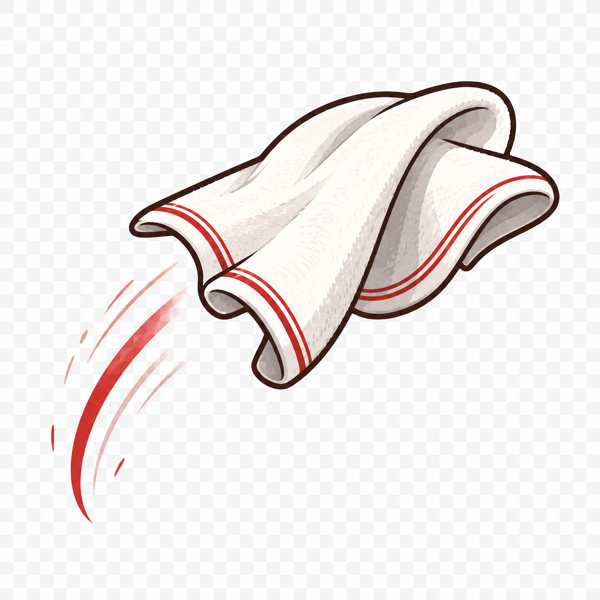
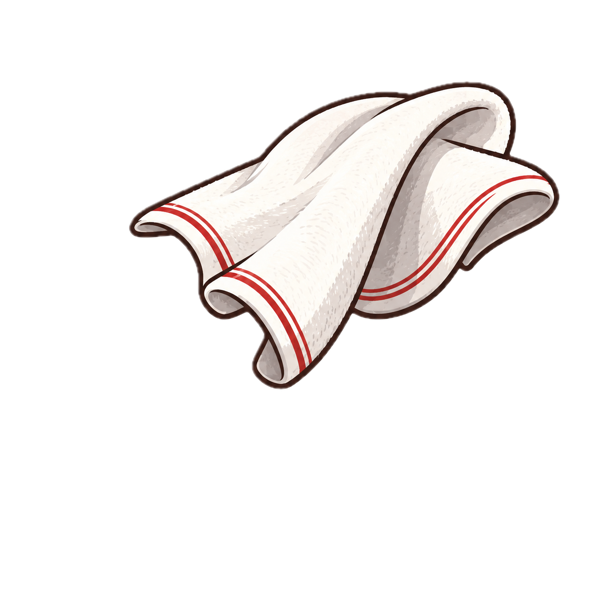
feat: 札束/タオル画像差し替え + SE/軌道を調整
- 札束画像を そらリス アセット (札束_透過.png) に差し替え (sips -Z 600 で 366KB)
- タオル画像を 新規 タオル_透過.png に差し替え (170KB)
- 特殊パンチを縦並びに戻す (--row 解除し、--center を再度有効化)。
  CSS から不要になった --row 定義を削除
- cashWhomp() を「紙束でバサッ」寄りに作り直し:
  chime / bell の triangle oscillator を撤去。低域を短くして紙ノイズと
  3 連 riffle (高域ノイズ 短音 ×3) で「バサッ」の質感を出す
- TowelOverlay: 左外 (x: -180%) → 中央 (x: -50%) → 右外 (x: 120%) の
  横切り軌道に変更。中央でわずかに上に弧を描く (y: -30% → -58% → -30%)

diff --git a/src/lib/sound.ts b/src/lib/sound.ts
@@ -422,64 +422,69 @@ function cashWhomp() {
   const master = getMaster(c);
   const now = c.currentTime;
 
-  // Heavy thud (a stack of paper has weight)
+  // 紙束で「バサッ」と叩く: 短い低域スラップ + 高域の紙ノイズ + 速い riffle
+  // (chime / bell は使わない)
   thumpInto(c, master, now, {
-    bodyFreqStart: 90,
-    bodyFreqEnd: 30,
-    bodyDur: 0.42,
-    bodyVol: 0.4,
-    subFreqStart: 50,
-    subFreqEnd: 22,
-    subDur: 0.34,
-    subVol: 0.3,
-    slapBP: 1300,
-    slapBPQ: 1.7,
-    slapDur: 0.07,
-    slapVol: 0.18,
-    clickVol: 0.07,
-    clickDur: 0.016,
+    bodyFreqStart: 130,
+    bodyFreqEnd: 50,
+    bodyDur: 0.16,
+    bodyVol: 0.26,
+    subFreqStart: 60,
+    subFreqEnd: 32,
+    subDur: 0.14,
+    subVol: 0.18,
+    slapBP: 2000,
+    slapBPQ: 1.2,
+    slapDur: 0.05,
+    slapVol: 0.16,
+    clickVol: 0.04,
+    clickDur: 0.012,
   });
 
-  // Paper riffle: two short high-passed noise bursts
-  for (const startOffset of [0, 0.06]) {
-    const at = now + startOffset;
+  // 紙の「バサッ」本体: 中〜高域のノイズが短く広がる
+  {
     const { node, offset } = noiseSourceWithOffset(c);
     const hp = c.createBiquadFilter();
     hp.type = "highpass";
-    hp.frequency.setValueAtTime(2200, at);
+    hp.frequency.setValueAtTime(800, now);
     const bp = c.createBiquadFilter();
     bp.type = "bandpass";
-    bp.frequency.setValueAtTime(4500, at);
-    bp.Q.setValueAtTime(0.9, at);
+    bp.frequency.setValueAtTime(2400, now);
+    bp.frequency.exponentialRampToValueAtTime(900, now + 0.18);
+    bp.Q.setValueAtTime(0.7, now);
+    const gain = c.createGain();
+    gain.gain.setValueAtTime(0, now);
+    gain.gain.linearRampToValueAtTime(0.22, now + 0.006);
+    gain.gain.exponentialRampToValueAtTime(0.001, now + 0.22);
+    node.connect(hp);
+    hp.connect(bp);
+    bp.connect(gain);
+    gain.connect(master);
+    node.start(now, offset);
+    node.stop(now + 0.24);
+  }
+
+  // 紙束のページがめくれる速い riffle (3 連の高域ノイズ)
+  for (const tOff of [0.012, 0.04, 0.075]) {
+    const at = now + tOff;
+    const { node, offset } = noiseSourceWithOffset(c);
+    const hp = c.createBiquadFilter();
+    hp.type = "highpass";
+    hp.frequency.setValueAtTime(3000, at);
+    const bp = c.createBiquadFilter();
+    bp.type = "bandpass";
+    bp.frequency.setValueAtTime(5200 + Math.random() * 1400, at);
+    bp.Q.setValueAtTime(1.4, at);
     const gain = c.createGain();
     gain.gain.setValueAtTime(0, at);
-    gain.gain.linearRampToValueAtTime(0.13, at + 0.008);
-    gain.gain.exponentialRampToValueAtTime(0.0008, at + 0.13);
+    gain.gain.linearRampToValueAtTime(0.08, at + 0.003);
+    gain.gain.exponentialRampToValueAtTime(0.0006, at + 0.05);
     node.connect(hp);
     hp.connect(bp);
     bp.connect(gain);
     gain.connect(master);
     node.start(at, offset);
-    node.stop(at + 0.15);
-  }
-
-  // Cha-ching ding (two-note bell)
-  for (const [freq, atOffset, vol] of [
-    [1760, 0.02, 0.18] as const,
-    [2349, 0.12, 0.12] as const,
-  ]) {
-    const at = now + atOffset;
-    const osc = c.createOscillator();
-    osc.type = "triangle";
-    osc.frequency.setValueAtTime(freq, at);
-    const gain = c.createGain();
-    gain.gain.setValueAtTime(0, at);
-    gain.gain.linearRampToValueAtTime(vol, at + 0.005);
-    gain.gain.exponentialRampToValueAtTime(0.0006, at + 0.5);
-    osc.connect(gain);
-    gain.connect(master);
-    osc.start(at);
-    osc.stop(at + 0.55);
+    node.stop(at + 0.06);
   }
 }
 

diff --git a/src/components/TowelOverlay.tsx b/src/components/TowelOverlay.tsx
@@ -32,15 +32,15 @@ export function TowelOverlay() {
         alt=""
         draggable={false}
         className="towel-overlay__img"
-        initial={{ x: "-160%", y: "-30%", rotate: -32, scale: 0.7, opacity: 0 }}
+        initial={{ x: "-180%", y: "-30%", rotate: -18, scale: 0.95, opacity: 0 }}
         animate={{
-          x: ["-160%", "-50%", "-50%"],
-          y: ["-30%", "-50%", "-50%"],
-          rotate: [-32, -8, 12],
-          scale: [0.7, 1, 1.05],
-          opacity: [0, 1, 0.95],
+          x: ["-180%", "-50%", "120%"],
+          y: ["-30%", "-58%", "-30%"],
+          rotate: [-18, 6, 24],
+          scale: [0.95, 1.05, 0.95],
+          opacity: [0, 1, 0.85],
         }}
-        transition={{ duration: 0.95, times: [0, 0.6, 1], ease: "easeOut" }}
+        transition={{ duration: 1.0, times: [0, 0.45, 1], ease: "easeInOut" }}
       />
     </motion.div>
   );

diff --git a/src/styles/globals.css b/src/styles/globals.css
@@ -235,22 +235,13 @@ textarea {
   align-items: center;
 }
 
-.side-section__list--row {
-  flex-direction: row;
-  flex-wrap: wrap;
-  justify-content: center;
-  gap: 10px;
-}
-
 .side-section__list .quick-punch-button {
   width: 100%;
   flex: 0 0 auto;
 }
 
 .side-section__list--center .quick-punch-button--cat,
-.side-section__list--center .quick-punch-button--cash,
-.side-section__list--row .quick-punch-button--cat,
-.side-section__list--row .quick-punch-button--cash {
+.side-section__list--center .quick-punch-button--cash {
   width: auto;
 }
 

diff --git a/src/components/SkillPanel.tsx b/src/components/SkillPanel.tsx
@@ -136,7 +136,7 @@ export function SkillPanel({
         <div className="side-section__head">
           <span className="side-section__label">特殊パンチ</span>
         </div>
-        <div className="side-section__list side-section__list--center side-section__list--row" role="group" aria-label="特殊パンチ">
+        <div className="side-section__list side-section__list--center" role="group" aria-label="特殊パンチ">
           <button
             type="button"
             className="quick-punch-button quick-punch-button--cat"
